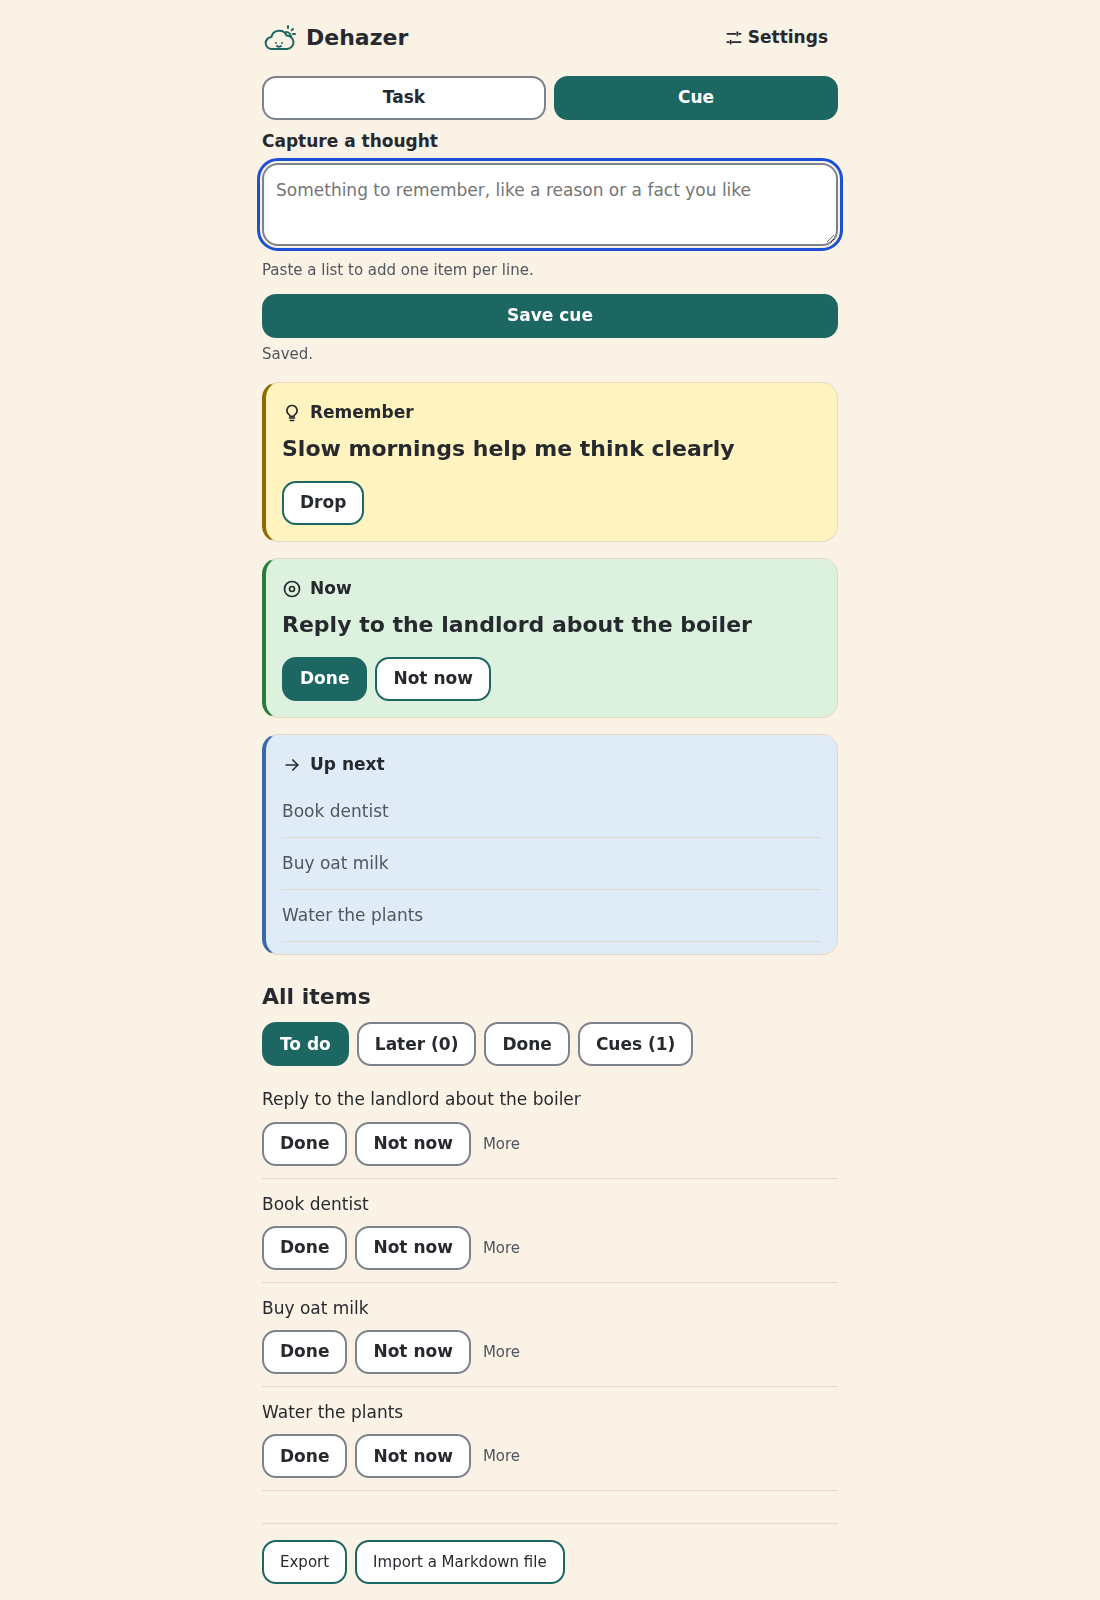
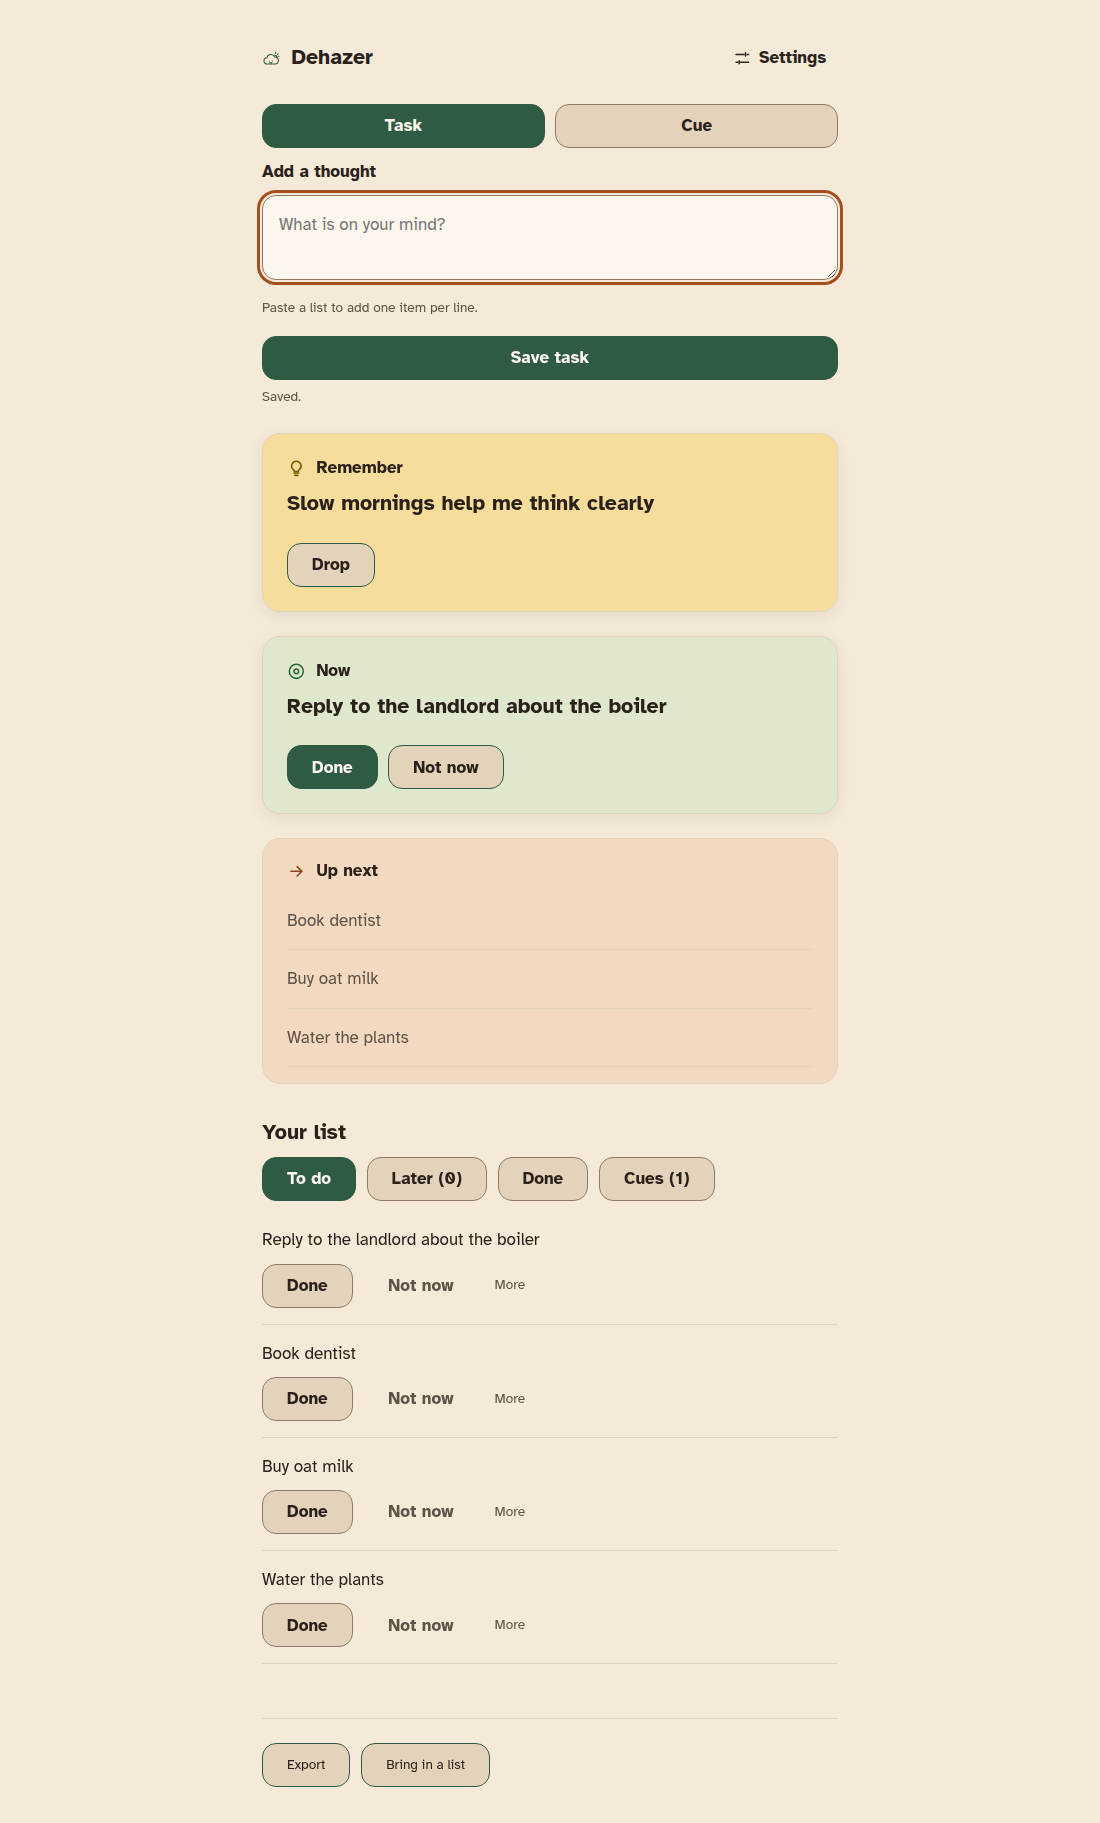
Release v0.7.0: what-changed note, docs, nd-review request, new screenshots

Changed region(s): [[0.2164, 0.0, 0.7727, 1.0]]

diff --git a/sw.js b/sw.js
@@ -1,5 +1,5 @@
 // App shell cache. Network first for the page so updates arrive; cache when offline.
-const CACHE = 'dehazer-v0.6.0';
+const CACHE = 'dehazer-v0.7.0';
 const SHELL = ['./', 'index.html', 'icon.svg', 'manifest.webmanifest', 'src/tokens.css', 'src/app.css', 'src/main.js',
   'src/ui.js', 'src/store.js', 'src/messages.js', 'src/markdown.js', 'src/backup.js', 'src/idb-backend.js',
   'src/paste.js', 'src/settings.js', 'src/whatsnew.js', 'src/tools.js', 'src/cues.js', 'src/icons.js', 'src/tools-ui.js',

diff --git a/src/messages.js b/src/messages.js
@@ -115,4 +115,4 @@ Object.assign(MSG, {
   lookV06: 'Old warm look (v0.6)',
   lookPlain: 'Plain',
 });
-MSG.newBody = 'New: a warmer look, and two kinds of memo: tasks and cues. Cues come back on days 1, 3, 7, 14 and 30, then monthly. Prefer the old look? Settings, Look, Plain.';
+MSG.newBody = 'New: warmer colours, calmer buttons and shorter words. Nothing moved. Every button is where it was. Prefer the old look? Settings, Look.';

diff --git a/src/whatsnew.js b/src/whatsnew.js
@@ -1,5 +1,5 @@
 // "What changed" note. Shown once after an update. A new user is never greeted by it.
-export const VERSION = '0.6.0';
+export const VERSION = '0.7.0';
 const KEY = 'dehazer.seenVersion';
 
 export function whatsNewDue(storage) {

diff --git a/docs/UX-DECISIONS.md b/docs/UX-DECISIONS.md
@@ -61,3 +61,15 @@ Paste preview ("Add 12 items?"), axe check in CI, keep-the-old-layout switch, tr
 - **Look.** Warm and friendly: Cue yellow, Now green, Up next blue, a 4 px coloured left edge, 16 px corners, small line icons and a small cloud mascot. Icons are decoration. Every card also has a text heading, so colour is never the only signal. No motion. A Plain look (v0.5 colours) is in Settings, Look.
 - **Not built yet:** Accept / Decline card for action memos, colour tags, pause all cues, return point tool. See BACKLOG.md.
 - **Known limits (cues).** With two tabs open at once, a cue can move to its next date in one tab while the other tab draws a different cue, or a cue dropped in one tab can leave the card empty until the next open. Nothing is lost. Export does not save the schedule: an imported cue starts again at day 1.
+
+## v0.7: Honey and pine (colours, shapes, words; nothing moved)
+Why: a user said the app felt cold and clinical. Pure white cards, blue-grey borders and a cold blue card looked like a clinic form.
+What changed:
+- Colours: oat page `#f5ead8`, ivory cards `#fcf6ec`, walnut text `#2b211b`, pine buttons `#2f5a43`. No pure white or black. Greys carry the walnut hue. The "Up next" card is apricot, not blue.
+- Shapes: soft tint cards without a left bar, one soft shadow, one radius family. Done is a quiet tint button. Not now is plain text, so two buttons side by side never look the same.
+- Type: Atkinson Hyperlegible is the default font. Four sizes on one ratio of 1.25. Spacing steps share one ratio of 1.5. Top and bottom page padding is larger than the sides.
+- Words: shorter and kinder. "Capture a thought" is now "Add a thought". "All items" is "Your list". "Marked done." is "Done. One less thing."
+- Kept: every button position, list order, main button text, motion off. The v0.6 look stays in Settings for one release.
+Checks: 180 contrast checks (light, dark, v0.6, Plain). A browser check at 390 px that the order of every button is the same as in v0.6.
+Sources: Krug, *Don't Make Me Think* (noise, cut words, goodwill); the *Psychology of Web Design* colour chapters (white reads as clinical; cream and brown read as warm); Filipiuk, *UI Design Principles* (warm greys, button levels, soft shadows); Every Layout and Müller-Brockmann, *Grid Systems* (one ratio, whole-line rhythm, unequal margins).
+Review: nd-review pass wanted before the next release. See [nd-review-v0.7.md](nd-review-v0.7.md).

diff --git a/README.md b/README.md
@@ -7,13 +7,13 @@ A free, open-source, local-first web app that helps ADHD and autistic adults **c
 ## Two kinds of memo
 - **Task:** goes straight to the list. One task shows in the Now card. The next four wait in Up next.
 - **Cue:** something to remember, like a reason or a fact you like. One cue at a time shows in its own card. It comes back on days 1, 3, 7, 14 and 30, then every month. The only action is Drop, with 30 seconds to undo.
-- **Look:** a warm look with soft colours is the default. A Plain look with the older colours is in Settings. There is no motion and no sound in either look.
+- **Look:** Honey and pine is the default: oat page, ivory cards, pine buttons. The v0.6 warm look (kept for one release) and a Plain look are in Settings. There is no motion and no sound in any look.
 
 ## Screenshots
 ![Home on a wide screen: capture box, Now card, Up next, all items](docs/screens/home.png)
-![Phone width, light](docs/screens/phone.png)
+![Phone width, light (Honey and pine)](docs/screens/phone.png)
 ![Phone width, dark](docs/screens/dark.png)
-![Plain look: the older colours and shapes, no icons](docs/screens/plain.png)
+![Plain look: plain colours and shapes, no icons](docs/screens/plain.png)
 ![Settings: look, colours, text size, font, backup reminder](docs/screens/settings.png)
 ![Tools shelf in Settings: every tool is off until you turn it on](docs/screens/tools-shelf.png)
 ![Show this: a message in very large type](docs/screens/show-this.png)

diff --git a/docs/nd-review-v0.7.md b/docs/nd-review-v0.7.md
@@ -1,0 +1,25 @@
+# nd-review request: v0.7 Honey and pine
+
+Label: `nd-review`. Please read this before you try the app. It takes about 10 minutes.
+
+## What moves
+Nothing moves. Every button, box and link is in the same place and the same order as v0.6. List order is the same. Motion is off.
+
+## What changes
+- Default colours and default font (frozen items in LAYOUT-FREEZE.md).
+- Card shapes: no left bar, soft tint, one shadow.
+- Wording: shorter and kinder. Main button text is the same (Task, Cue, Save task, Save cue, Done, Not now, Drop).
+
+## Why
+A user said v0.6 felt cold and clinical.
+
+## Keep the old look
+Settings, Look, "Old warm look (v0.6)". It stays for one release. Plain also stays.
+
+## Questions for reviewers
+1. Does the new look feel calmer, the same, or more tiring than v0.6?
+2. Can you find every button without looking for it?
+3. Is any word unclear, or does any word feel like pressure?
+4. Is any text hard to read in light, dark or at a larger text size?
+
+Release notes ship first: the "What changed" screen appears once after the update.

diff --git a/BACKLOG.md b/BACKLOG.md
@@ -26,3 +26,8 @@ Not built yet. Ordered by when we think about them, not by promise.
 - Colour tags.
 - Pause all cues for a while.
 - Return point tool.
+
+## From v0.7 (Honey and pine)
+- Open an `nd-review` issue with docs/nd-review-v0.7.md and get one neurodivergent reviewer pass.
+- After one release, remove the "Old warm look (v0.6)" option.
+- Retake the Tools, Call panel, Doctor sheet and More screenshots in the new look.
